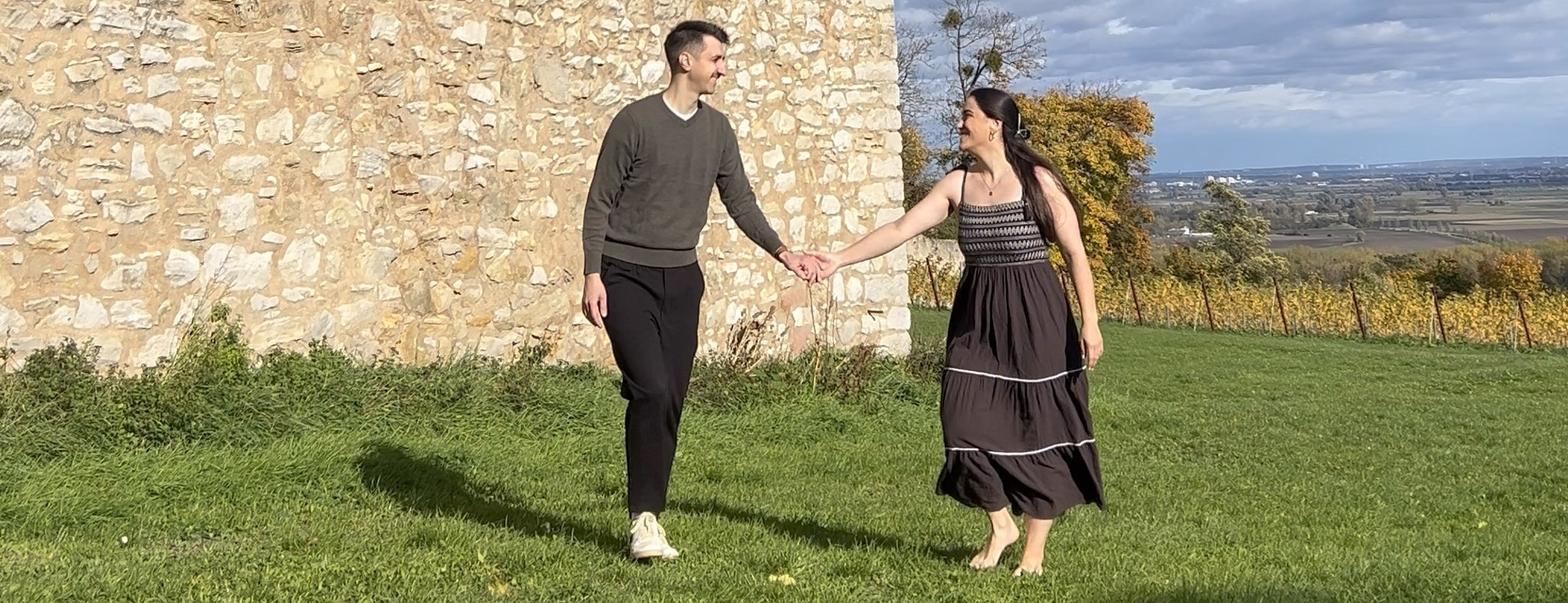
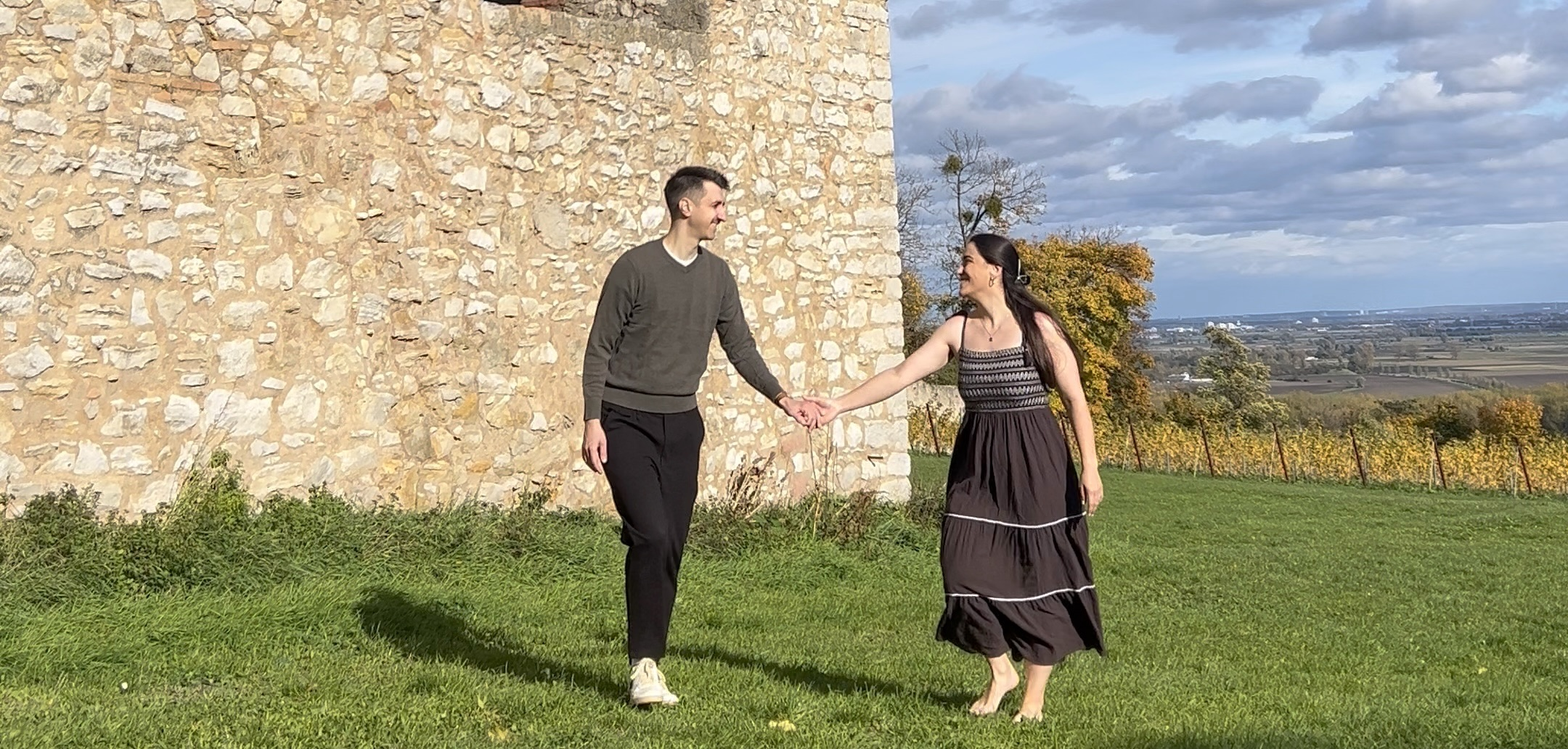
Titelbild angepasst.

diff --git a/index.html b/index.html
@@ -29,7 +29,7 @@
         <!-- Hero Section -->
         <section class="relative h-screen flex items-center justify-center overflow-hidden">
             <div class="absolute inset-0 bg-black/30 z-10"></div>
-            <img src="startseite.jpeg" alt="Wedding couple" class="absolute inset-0 w-full h-full object-cover object-top">
+            <img src="Startseite.jpeg" alt="Wedding couple" class="absolute inset-0 w-full h-full object-cover object-top">
             
             
             <div class="relative z-20 text-center px-4">
